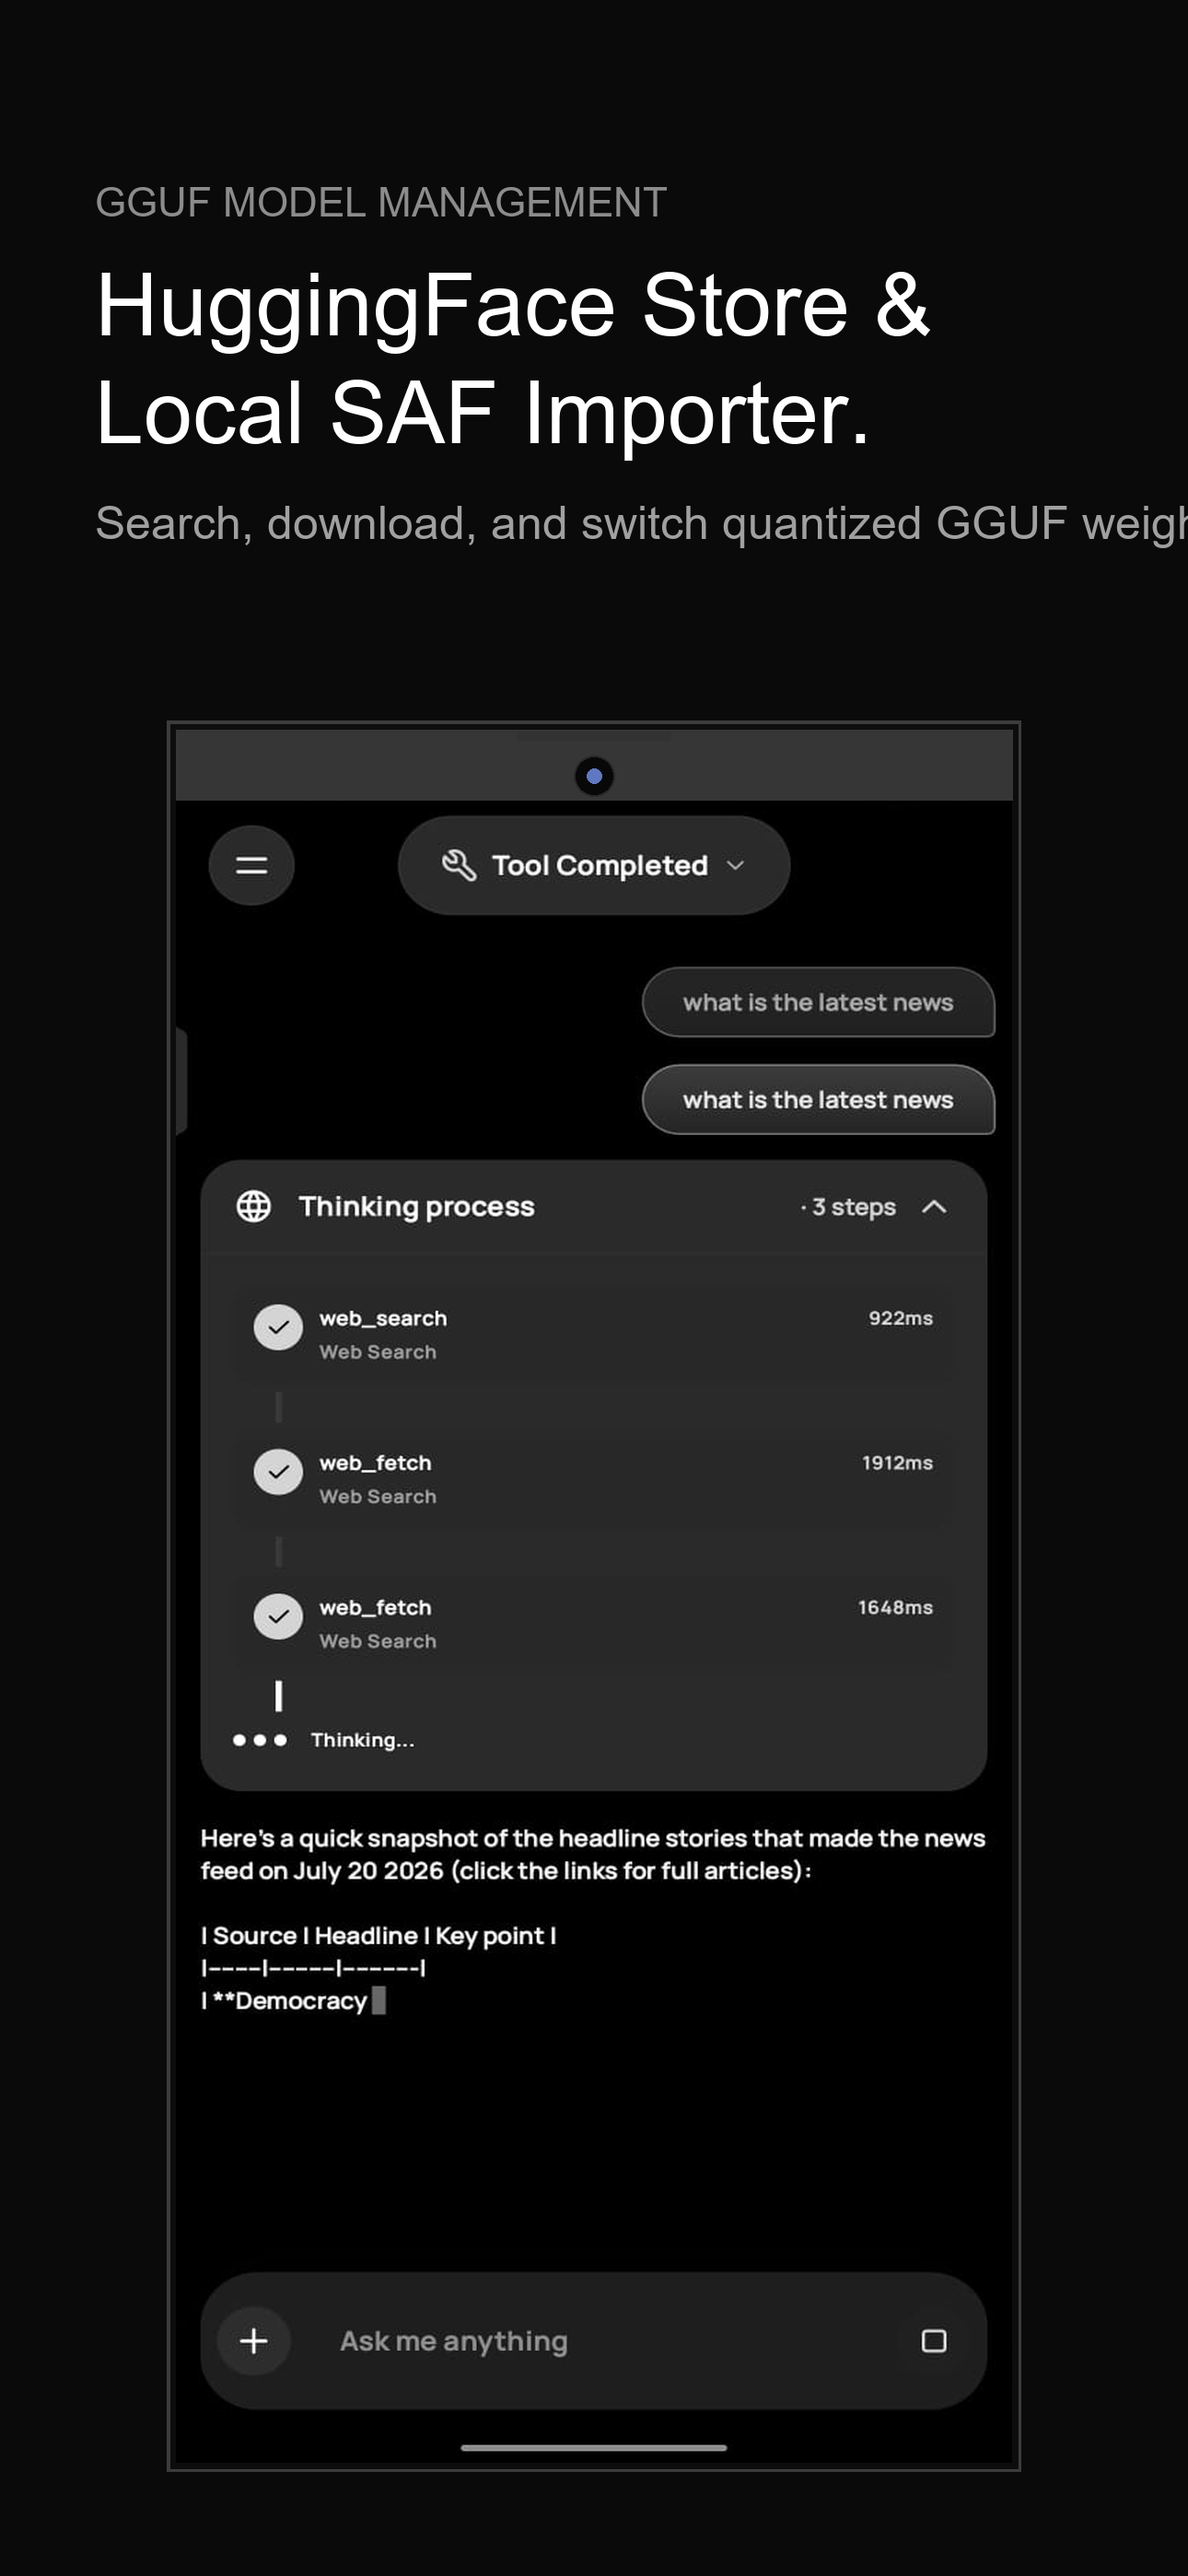
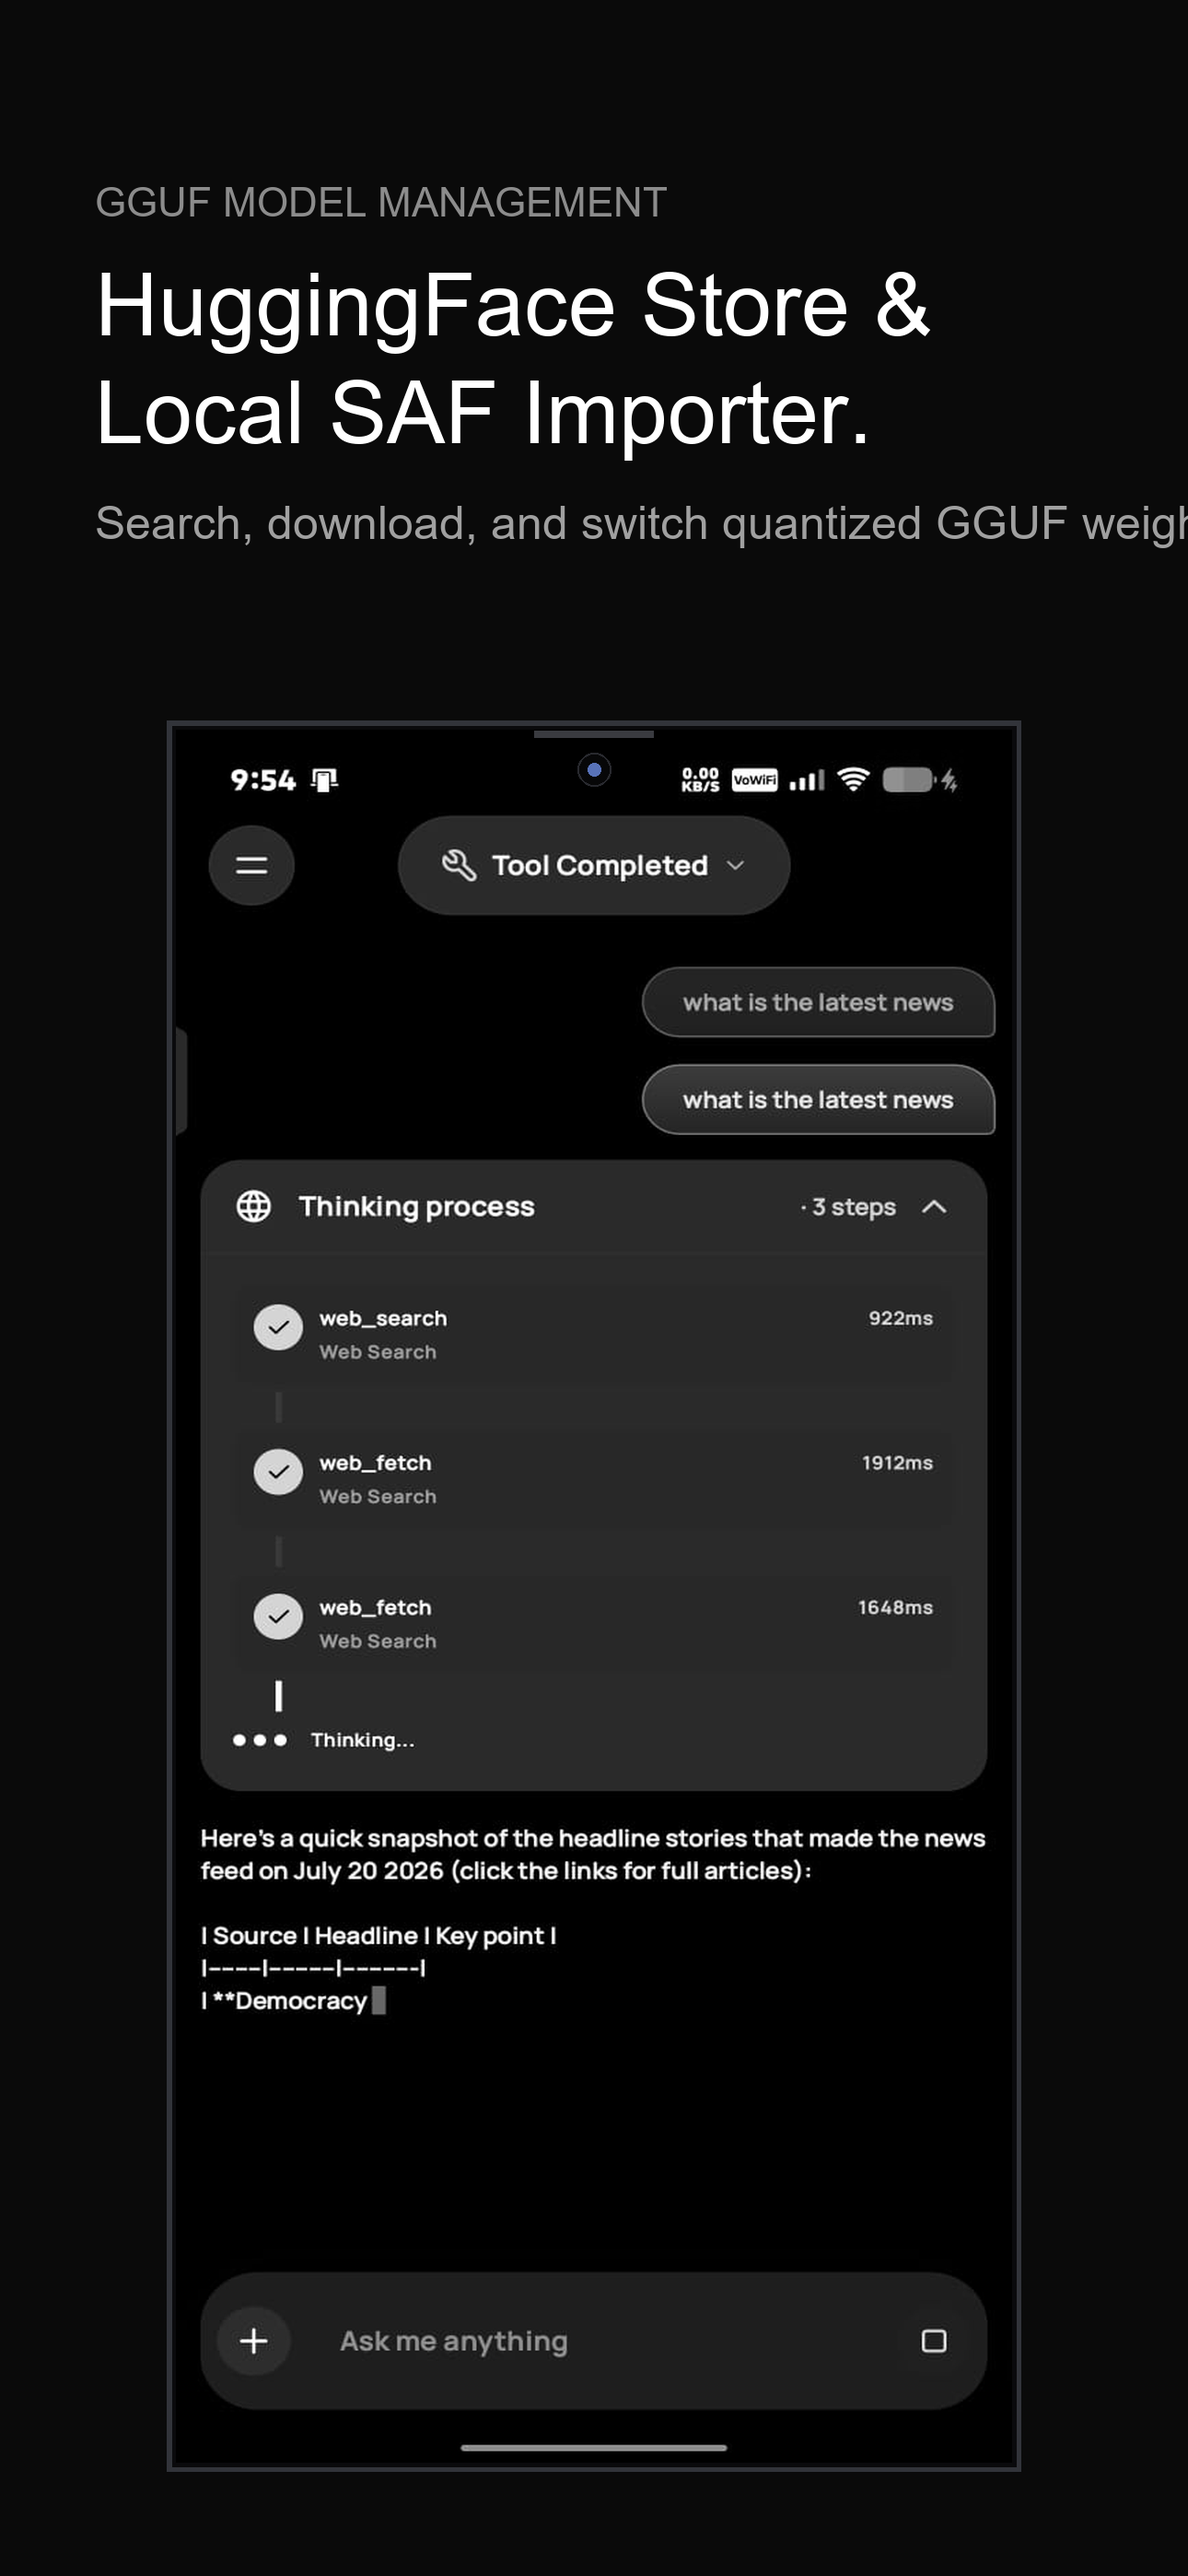
feat: Upgrade phone frames to latest Samsung Galaxy S24/S25 Ultra Armor Titanium flagship chassis

Changed region(s): [[0.124, 0.28, 0.8682, 0.3112]]

diff --git a/site/style.css b/site/style.css
@@ -272,111 +272,99 @@ section.hero {
   filter: brightness(0.95);
 }
 
-/* ── Ultra-Realistic Google Pixel 6 Pro & Titanium Edge Frame ── */
+/* ── Latest Samsung Galaxy S24 / S25 Ultra Titanium Device Frame ── */
 .phone-frame {
   width: 100%;
   height: 100%;
-  background: #0D0D0D;
-  border-radius: 38px;
-  padding: 7px;
-  /* Titanium metallic edge effect */
-  border: 2px solid rgba(255, 255, 255, 0.15);
+  background: #08080A;
+  border-radius: 22px;
+  padding: 6px;
+  /* Armor Titanium Frame with Brushed Metallic Edge */
+  border: 6px solid #1B1C20;
+  outline: 1px solid rgba(255, 255, 255, 0.22);
   box-shadow: 
     0 45px 110px rgba(0, 0, 0, 0.95),
     0 15px 40px rgba(0, 0, 0, 0.85),
-    inset 0 0 16px rgba(0, 0, 0, 0.95),
-    inset 0 2px 4px rgba(255, 255, 255, 0.25),
-    inset 0 -2px 4px rgba(255, 255, 255, 0.15);
+    inset 0 0 12px rgba(0, 0, 0, 0.95),
+    inset 0 1.5px 0 rgba(255, 255, 255, 0.3),
+    inset 0 -1.5px 0 rgba(255, 255, 255, 0.15);
   position: relative;
   overflow: hidden;
 }
 
-/* Pixel Camera Visor Bar Bump Accent */
-.pixel-visor-bar {
+/* Galaxy S24/S25 Ultra Top Speaker Slit */
+.samsung-speaker {
   position: absolute;
-  top: 0;
-  left: 0;
-  right: 0;
-  height: 38px;
-  background: linear-gradient(180deg, #1C1C1C 0%, #0D0D0D 100%);
-  border-bottom: 1px solid rgba(255, 255, 255, 0.08);
-  z-index: 18;
-  pointer-events: none;
-}
-
-/* Pixel Top Speaker Grill */
-.pixel-speaker {
-  position: absolute;
-  top: 4px;
+  top: 2px;
   left: 50%;
   transform: translateX(-50%);
-  width: 54px;
-  height: 3px;
-  background: #333333;
-  border-radius: 2px;
+  width: 44px;
+  height: 2px;
+  background: #3A3B40;
+  border-radius: 1px;
   z-index: 22;
-  box-shadow: inset 0 1px 1px rgba(0, 0, 0, 0.8);
+  box-shadow: inset 0 1px 1px rgba(0, 0, 0, 0.9);
 }
 
-/* Pixel Centered Camera Punchhole Sensor */
-.pixel-camera {
+/* Galaxy S24/S25 Ultra Infinity-O Centered Camera */
+.samsung-camera {
   position: absolute;
-  top: 13px;
+  top: 11px;
   left: 50%;
   transform: translateX(-50%);
-  width: 16px;
-  height: 16px;
-  background: #080808;
-  border: 2px solid #282828;
+  width: 13px;
+  height: 13px;
+  background: #070708;
+  border: 1.5px solid #28292E;
   border-radius: 50%;
   z-index: 22;
-  box-shadow: inset 0 0 4px rgba(0, 0, 0, 0.95), 0 0 2px rgba(255, 255, 255, 0.1);
+  box-shadow: inset 0 0 4px rgba(0, 0, 0, 0.95), 0 0 2px rgba(255, 255, 255, 0.12);
 }
 
-.pixel-camera::before {
+.samsung-camera::before {
   content: '';
   position: absolute;
-  top: 3px;
-  left: 3px;
-  width: 6px;
-  height: 6px;
+  top: 2.5px;
+  left: 2.5px;
+  width: 5px;
+  height: 5px;
   border-radius: 50%;
-  background: radial-gradient(circle at 30% 30%, #6078C0 0%, #151D38 80%);
+  background: radial-gradient(circle at 35% 35%, #5872B8 0%, #10162A 85%);
 }
 
-/* Pixel Power & Volume Side Metallic Buttons */
-.pixel-power-btn {
+/* Galaxy S24/S25 Ultra Right-Side Titanium Buttons */
+.samsung-power-btn {
   position: absolute;
-  right: -9px;
-  top: 95px;
-  width: 4px;
-  height: 38px;
-  background: linear-gradient(180deg, #444 0%, #222 100%);
-  border-radius: 0 3px 3px 0;
+  right: -8px;
+  top: 92px;
+  width: 3.5px;
+  height: 36px;
+  background: linear-gradient(180deg, #4A4C52 0%, #222328 100%);
+  border-radius: 0 2px 2px 0;
   z-index: 10;
-  box-shadow: 1px 0 2px rgba(0,0,0,0.5);
+  box-shadow: 1px 0 3px rgba(0,0,0,0.6);
 }
 
-.pixel-volume-btn {
+.samsung-volume-btn {
   position: absolute;
-  right: -9px;
-  top: 148px;
-  width: 4px;
-  height: 72px;
-  background: linear-gradient(180deg, #444 0%, #222 100%);
-  border-radius: 0 3px 3px 0;
+  right: -8px;
+  top: 142px;
+  width: 3.5px;
+  height: 68px;
+  background: linear-gradient(180deg, #4A4C52 0%, #222328 100%);
+  border-radius: 0 2px 2px 0;
   z-index: 10;
-  box-shadow: 1px 0 2px rgba(0,0,0,0.5);
+  box-shadow: 1px 0 3px rgba(0,0,0,0.6);
 }
 
-/* Liquid Glass Reflection Glare Streak */
+/* Liquid Glass Dynamic Surface Glare */
 .phone-glare {
   position: absolute;
   inset: 0;
-  background: linear-gradient(130deg, rgba(255, 255, 255, 0.14) 0%, rgba(255, 255, 255, 0.04) 30%, transparent 65%);
+  background: linear-gradient(130deg, rgba(255, 255, 255, 0.15) 0%, rgba(255, 255, 255, 0.03) 32%, transparent 65%);
   pointer-events: none;
   z-index: 15;
-  border-radius: 32px;
+  border-radius: 16px;
 }
 
 .phone-screen {
@@ -384,7 +372,7 @@ section.hero {
   height: 100%;
   object-fit: cover;
   display: block;
-  border-radius: 30px;
+  border-radius: 16px;
   box-shadow: inset 0 0 2px rgba(255, 255, 255, 0.15);
 }
 

diff --git a/site/index.html b/site/index.html
@@ -102,11 +102,10 @@
         <!-- Left Phone: Chat Interface -->
         <div class="phone-wrapper phone-left" id="phoneLeft">
           <div class="phone-frame">
-            <div class="pixel-visor-bar"></div>
-            <div class="pixel-speaker"></div>
-            <div class="pixel-camera"></div>
-            <div class="pixel-power-btn"></div>
-            <div class="pixel-volume-btn"></div>
+            <div class="samsung-speaker"></div>
+            <div class="samsung-camera"></div>
+            <div class="samsung-power-btn"></div>
+            <div class="samsung-volume-btn"></div>
             <div class="phone-glare"></div>
             <img src="img/bit_chat_interface.jpg" alt="BIT Chat Interface" class="phone-screen app-shot" />
           </div>
@@ -116,11 +115,10 @@
         <!-- Right Phone: Live Voice Mode -->
         <div class="phone-wrapper phone-right" id="phoneRight">
           <div class="phone-frame">
-            <div class="pixel-visor-bar"></div>
-            <div class="pixel-speaker"></div>
-            <div class="pixel-camera"></div>
-            <div class="pixel-power-btn"></div>
-            <div class="pixel-volume-btn"></div>
+            <div class="samsung-speaker"></div>
+            <div class="samsung-camera"></div>
+            <div class="samsung-power-btn"></div>
+            <div class="samsung-volume-btn"></div>
             <div class="phone-glare"></div>
             <img src="img/bit_live_voice_mode.jpg" alt="BIT Live Voice Mode" class="phone-screen app-shot" />
           </div>
@@ -171,11 +169,10 @@
 
       <div class="showcase-container">
         <div class="phone-frame">
-          <div class="pixel-visor-bar"></div>
-          <div class="pixel-speaker"></div>
-          <div class="pixel-camera"></div>
-          <div class="pixel-power-btn"></div>
-          <div class="pixel-volume-btn"></div>
+          <div class="samsung-speaker"></div>
+          <div class="samsung-camera"></div>
+          <div class="samsung-power-btn"></div>
+          <div class="samsung-volume-btn"></div>
           <div class="phone-glare"></div>
           <img src="img/bit_model_store.jpg" alt="BIT Model Management" class="showcase-img app-shot" />
         </div>
@@ -257,11 +254,10 @@
         <!-- Left Phone: Model Editor -->
         <div class="phone-wrapper phone-left">
           <div class="phone-frame">
-            <div class="pixel-visor-bar"></div>
-            <div class="pixel-speaker"></div>
-            <div class="pixel-camera"></div>
-            <div class="pixel-power-btn"></div>
-            <div class="pixel-volume-btn"></div>
+            <div class="samsung-speaker"></div>
+            <div class="samsung-camera"></div>
+            <div class="samsung-power-btn"></div>
+            <div class="samsung-volume-btn"></div>
             <div class="phone-glare"></div>
             <img src="img/bit_model_editor.jpg" alt="BIT Model Config Editor" class="phone-screen app-shot" />
           </div>
@@ -271,11 +267,10 @@
         <!-- Right Phone: Settings -->
         <div class="phone-wrapper phone-right">
           <div class="phone-frame">
-            <div class="pixel-visor-bar"></div>
-            <div class="pixel-speaker"></div>
-            <div class="pixel-camera"></div>
-            <div class="pixel-power-btn"></div>
-            <div class="pixel-volume-btn"></div>
+            <div class="samsung-speaker"></div>
+            <div class="samsung-camera"></div>
+            <div class="samsung-power-btn"></div>
+            <div class="samsung-volume-btn"></div>
             <div class="phone-glare"></div>
             <img src="img/bit_settings.jpg" alt="BIT Settings" class="phone-screen app-shot" />
           </div>

diff --git a/generate_store_assets.py b/generate_store_assets.py
@@ -59,35 +59,31 @@ def create_marketing_screenshot(
         # Scale app shot to fit inside phone frame
         app_shot_resized = app_shot.resize((phone_w - 20, phone_h - 20), Image.Resampling.LANCZOS)
 
-        # Phone bezel frame
-        bezel = Image.new("RGBA", (phone_w, phone_h), (13, 13, 13, 255))
+        # Phone bezel frame (Samsung Galaxy S24 / S25 Ultra Titanium Frame)
+        bezel = Image.new("RGBA", (phone_w, phone_h), (10, 10, 12, 255))
         bezel_draw = ImageDraw.Draw(bezel)
         
-        # Draw metallic edge border
-        bezel_draw.rectangle([0, 0, phone_w, phone_h], outline=(60, 60, 60, 255), width=4)
+        # Draw Samsung Armor Titanium Edge
+        bezel_draw.rectangle([0, 0, phone_w, phone_h], outline=(50, 52, 58, 255), width=6)
         
         # Rounded corners for phone screen
         bezel.paste(app_shot_resized, (10, 10))
 
-        # Draw Pixel Camera Visor Accent
-        visor_h = int(phone_h * 0.04)
-        bezel_draw.rectangle([10, 10, phone_w - 10, 10 + visor_h], fill=(22, 22, 22, 220))
-
-        # Draw Google Pixel 6 Pro Speaker Grill
-        speaker_w = int(phone_w * 0.18)
-        speaker_h = int(phone_h * 0.005)
+        # Draw Samsung Galaxy S24/S25 Ultra Top Speaker Slit
+        speaker_w = int(phone_w * 0.14)
+        speaker_h = int(phone_h * 0.004)
         speaker_x = int((phone_w - speaker_w) / 2)
-        bezel_draw.rectangle([speaker_x, 12, speaker_x + speaker_w, 12 + speaker_h], fill=(50, 50, 50, 255))
+        bezel_draw.rectangle([speaker_x, 11, speaker_x + speaker_w, 11 + speaker_h], fill=(58, 59, 64, 255))
 
-        # Draw Google Pixel 6 Pro Camera Punchhole Sensor
-        camera_r = int(phone_w * 0.024)
+        # Draw Samsung Galaxy S24/S25 Ultra Infinity-O Centered Camera Punchhole
+        camera_r = int(phone_w * 0.02)
         camera_x = int(phone_w / 2)
-        camera_y = int(phone_h * 0.032)
-        bezel_draw.ellipse([camera_x - camera_r, camera_y - camera_r, camera_x + camera_r, camera_y + camera_r], fill=(8, 8, 8, 255), outline=(40, 40, 40, 255), width=2)
+        camera_y = int(phone_h * 0.028)
+        bezel_draw.ellipse([camera_x - camera_r, camera_y - camera_r, camera_x + camera_r, camera_y + camera_r], fill=(7, 7, 8, 255), outline=(40, 41, 46, 255), width=2)
         
-        # Camera Lens Glare Dot
+        # Camera Lens Reflection
         lens_r = int(camera_r * 0.4)
-        bezel_draw.ellipse([camera_x - lens_r, camera_y - lens_r, camera_x + lens_r, camera_y + lens_r], fill=(96, 120, 192, 255))
+        bezel_draw.ellipse([camera_x - lens_r, camera_y - lens_r, camera_x + lens_r, camera_y + lens_r], fill=(88, 114, 184, 255))
 
         # Paste phone mockup onto canvas
         canvas.paste(bezel, (phone_x, phone_y))
